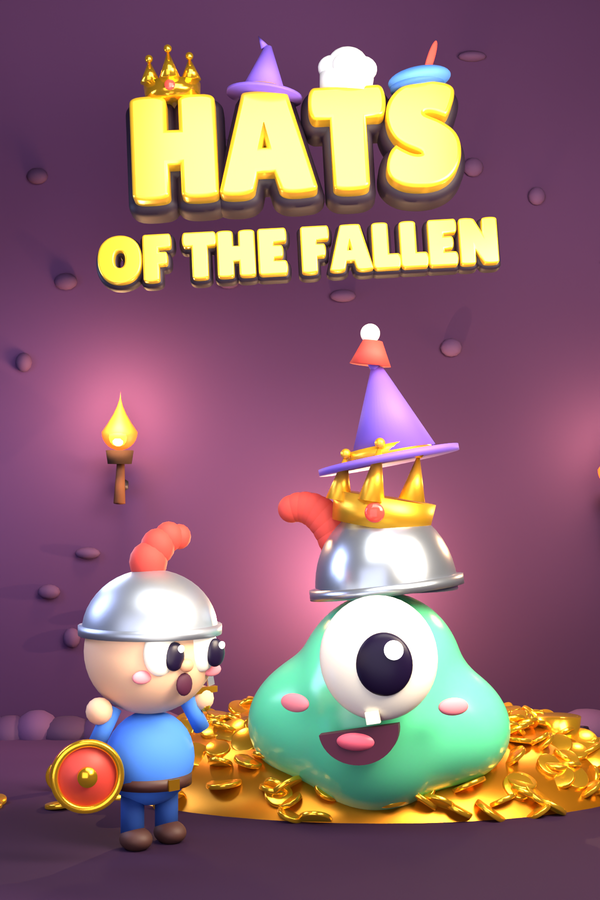
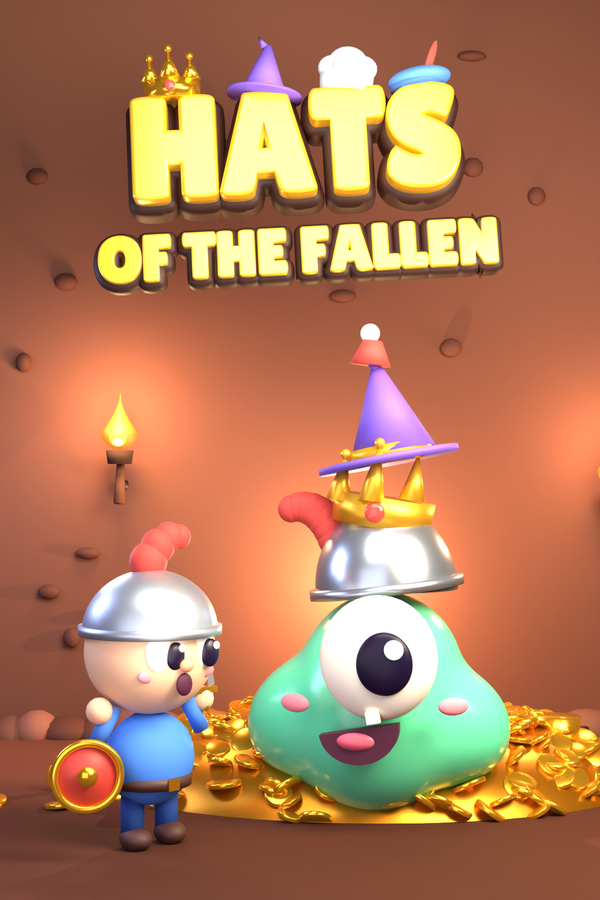
Mila: bibliotheek 600x900 in kleur H, blinde kijker 22 tegen 21
Claude-Session: https://claude.ai/code/session_01RMWUyipbzgmrzJRzTBk47f

diff --git a/ontwerp/steam/capsule-3d/staand3d.py b/ontwerp/steam/capsule-3d/staand3d.py
@@ -62,7 +62,7 @@ def midden_op(o, cx):
         t.location.x += dx
 hats = tekst("HATS", (0.0, -0.6, TZ), float(os.environ.get("ST_HS", "1.75")), kantel=-3)
 midden_op(hats, CX)
-sub = tekst("OF THE FALLEN", (0.0, -0.6, TZ - float(os.environ.get("ST_SUBZ", "0.7"))), float(os.environ.get("ST_SS", "0.78")), kantel=-3)
+sub = tekst("OF THE FALLEN", (0.0, -0.6, TZ - float(os.environ.get("ST_SUBZ", "0.7"))), float(os.environ.get("ST_SS", "0.78")), kantel=-3, rand=0.11 if KLEUR_H else 0.07)   # Mila 15 nov: dikkere rand in kleur H
 midden_op(sub, CX)
 if os.environ.get("ST_LETTERHOEDEN", "1") == "1":
     bpy.context.view_layer.update()

diff --git a/ontwerp/steam/capsule-3d/LEESMIJ.md b/ontwerp/steam/capsule-3d/LEESMIJ.md
@@ -132,3 +132,10 @@ Het spel is sinds vandaag warm (kleur H op main). Een paarse capsule zou dus nie
 - Eerlijk: paars viel in de rij iets meer op omdat geen buur paars is (kijker 7 tegen 6). Warm wint op rijkdom en is wat het spel nu is.
 - Vol formaat met `maak_alles.sh` (2x gerenderd, verkleind): header, klein en hoofdbeeld GEZIEN met Read; voor en na: `voor-na-pruim-kleur-h.png` (links oud, rechts H, onder klein).
 - Nog open (kan, volgende run): figuren groter in het vak (kijker: Gloop met toren 20 tot 30% groter; nu nog veel muur), en bibliotheek en staand (`staand3d.py`) in kleur H.
+
+## 15 nov ±16:00 tot 16:25 UTC (Mila, extra run): bibliotheek 600x900 en staand 748x896 in kleur H
+`staand3d.py` leest `capsule3d.py`, dus de warme wand, vloer en titelrand komen vanzelf mee. Eén wijziging in `staand3d.py`: de dikkere donkere rand om OF THE FALLEN (0,11 van de lettermaat) in kleur H, net als op de header.
+- Proef op 1x, oud en nieuw naast elkaar, GEZIEN met Read. Opbouw gelijk aan ronde 2 (toren van vier hoeden, ridder linksonder, hoeden op de letters).
+- **Blinde kijker** (Agent, plank met Rusty's, Tiny Pasture, Bongo Cat en Ropuka op 200x300): paars A 21, warm B 22, kiest B ("warmer, meer af, als een echt spel"). Paars valt op de plank iets meer op (7 tegen 6) omdat het de enige paarse tegel is; dat hangt af van de buren. Zijn moet: meer contrast achter de titel in het warme (donkerder vlak of zachte schaduw). Staat open voor de volgende run.
+- Vol formaat gerenderd op 2x, 32 samples, verkleind met Lanczos: `bibliotheek-600x900.png` en `staand-748x896.png`.
+- Op 14 nov verloor een warme wand (`ST_WARM`, roze-oranje achter de titel) nog van paars (6 tegen 8). Het verschil nu: het hele beeld is warm zoals het spel, met een donkerdere bruine wand in plaats van een lichte gloed achter de titel.
